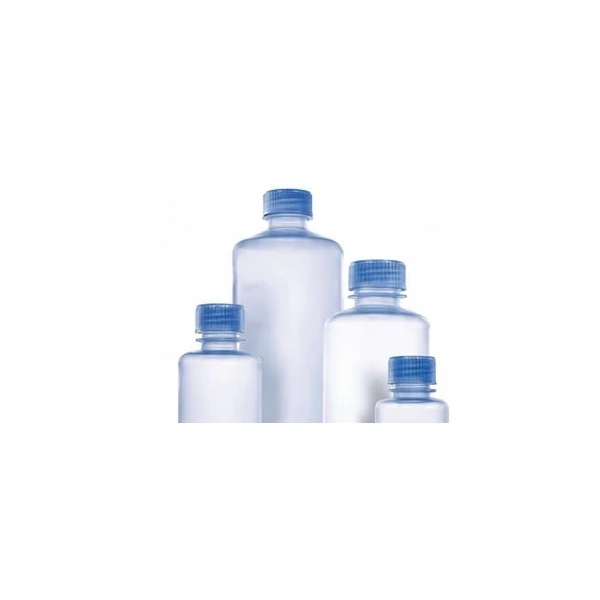
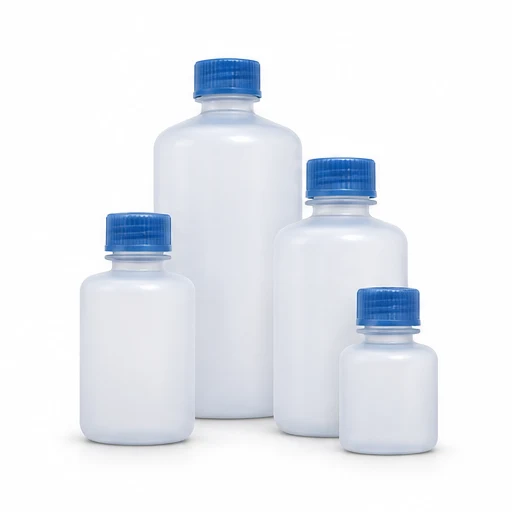
Replace six clipped bottle photos with full product illustrations

Changed region(s): [[0.1562, 0.0938, 0.875, 0.9062]]

diff --git a/product-one-piece-ldpe-wash-bottles.html b/product-one-piece-ldpe-wash-bottles.html
@@ -111,7 +111,7 @@
 <h1 class="display-6 fw-semibold my-3">One-Piece LDPE Wash Bottles</h1>
 <p>Squeezable low-density polyethylene wash bottles with a one-piece dispensing design. Confirm the required capacity and nozzle configuration when requesting a quote.</p><p>Request a quote to confirm the size, pack quantity, price and availability.</p>
 <a class="btn btn-dark" href="index.html?product=One-Piece%20LDPE%20Wash%20Bottles#site-visit">Get Quote</a>
-<p class="small text-secondary mt-3 mb-0">Catalogue image. The exact configuration is confirmed in your quote.</p></div></header>
+<p class="small text-secondary mt-3 mb-0">AI-generated product illustration. Confirm the exact configuration when requesting a quote.</p></div></header>
 <section aria-labelledby="specifications"><h2 class="section-heading" id="specifications">Product Details</h2>
 <div class="table-responsive"><table class="table table-bordered align-middle mb-0"><thead><tr><th scope="col">Feature</th><th scope="col">Catalogue detail</th></tr></thead><tbody><tr><th scope="row">Material</th><td>LDPE</td></tr><tr><th scope="row">Design</th><td>One-piece dispensing assembly</td></tr><tr><th scope="row">Selection</th><td>Confirm capacity and nozzle configuration</td></tr></tbody></table></div></section>
 <section aria-labelledby="related"><h2 class="section-heading" id="related">Related Products</h2><ul class="row row-cols-1 row-cols-sm-3 g-3 list-unstyled mb-0"><li class="col"><a class="price-block h-100 p-3 text-decoration-none" href="product-sterile-cell-spreaders.html"><img class="catalog-photo" src="img/products/sterile-cell-spreaders.webp" alt="Sterile Cell Spreaders" width="600" height="600" loading="lazy" decoding="async"><span class="fw-semibold">Sterile Cell Spreaders</span></a></li><li class="col"><a class="price-block h-100 p-3 text-decoration-none" href="product-narrow-mouth-polypropylene-bottles.html"><img class="catalog-photo" src="img/products/narrow-mouth-polypropylene-bottles.webp" alt="Narrow-Mouth Polypropylene Bottles" width="600" height="600" loading="lazy" decoding="async"><span class="fw-semibold">Narrow-Mouth Polypropylene Bottles</span></a></li><li class="col"><a class="price-block h-100 p-3 text-decoration-none" href="product-narrow-mouth-ldpe-bottles.html"><img class="catalog-photo" src="img/products/narrow-mouth-ldpe-bottles.webp" alt="Narrow-Mouth LDPE Bottles" width="600" height="600" loading="lazy" decoding="async"><span class="fw-semibold">Narrow-Mouth LDPE Bottles</span></a></li></ul></section>

diff --git a/product-euro-style-ldpe-dropping-bottles.html b/product-euro-style-ldpe-dropping-bottles.html
@@ -111,7 +111,7 @@
 <h1 class="display-6 fw-semibold my-3">Euro-Style LDPE Dropping Bottles</h1>
 <p>LDPE dropping bottles with a dispensing tip and cap for controlled dropwise delivery. The source shows small bottle formats for routine laboratory dispensing.</p><p>Request a quote to confirm the size, pack quantity, price and availability.</p>
 <a class="btn btn-dark" href="index.html?product=Euro-Style%20LDPE%20Dropping%20Bottles#site-visit">Get Quote</a>
-<p class="small text-secondary mt-3 mb-0">Catalogue image. The exact configuration is confirmed in your quote.</p></div></header>
+<p class="small text-secondary mt-3 mb-0">AI-generated product illustration. Confirm the exact configuration when requesting a quote.</p></div></header>
 <section aria-labelledby="specifications"><h2 class="section-heading" id="specifications">Product Details</h2>
 <div class="table-responsive"><table class="table table-bordered align-middle mb-0"><thead><tr><th scope="col">Feature</th><th scope="col">Catalogue detail</th></tr></thead><tbody><tr><th scope="row">Material</th><td>LDPE</td></tr><tr><th scope="row">Format</th><td>Euro-style dropping bottle</td></tr><tr><th scope="row">Closure</th><td>Tip and screw cap</td></tr></tbody></table></div></section>
 <section aria-labelledby="related"><h2 class="section-heading" id="related">Related Products</h2><ul class="row row-cols-1 row-cols-sm-3 g-3 list-unstyled mb-0"><li class="col"><a class="price-block h-100 p-3 text-decoration-none" href="product-sterile-cell-spreaders.html"><img class="catalog-photo" src="img/products/sterile-cell-spreaders.webp" alt="Sterile Cell Spreaders" width="600" height="600" loading="lazy" decoding="async"><span class="fw-semibold">Sterile Cell Spreaders</span></a></li><li class="col"><a class="price-block h-100 p-3 text-decoration-none" href="product-narrow-mouth-polypropylene-bottles.html"><img class="catalog-photo" src="img/products/narrow-mouth-polypropylene-bottles.webp" alt="Narrow-Mouth Polypropylene Bottles" width="600" height="600" loading="lazy" decoding="async"><span class="fw-semibold">Narrow-Mouth Polypropylene Bottles</span></a></li><li class="col"><a class="price-block h-100 p-3 text-decoration-none" href="product-narrow-mouth-ldpe-bottles.html"><img class="catalog-photo" src="img/products/narrow-mouth-ldpe-bottles.webp" alt="Narrow-Mouth LDPE Bottles" width="600" height="600" loading="lazy" decoding="async"><span class="fw-semibold">Narrow-Mouth LDPE Bottles</span></a></li></ul></section>

diff --git a/product-ldpe-wash-bottles.html b/product-ldpe-wash-bottles.html
@@ -111,7 +111,7 @@
 <h1 class="display-6 fw-semibold my-3">LDPE Wash Bottles</h1>
 <p>Squeezable LDPE wash bottles with an angled dispensing nozzle. Select body capacity and nozzle configuration for the intended liquid.</p><p>Request a quote to confirm the size, pack quantity, price and availability.</p>
 <a class="btn btn-dark" href="index.html?product=LDPE%20Wash%20Bottles#site-visit">Get Quote</a>
-<p class="small text-secondary mt-3 mb-0">Catalogue image. The exact configuration is confirmed in your quote.</p></div></header>
+<p class="small text-secondary mt-3 mb-0">AI-generated product illustration. Confirm the exact configuration when requesting a quote.</p></div></header>
 <section aria-labelledby="specifications"><h2 class="section-heading" id="specifications">Product Details</h2>
 <div class="table-responsive"><table class="table table-bordered align-middle mb-0"><thead><tr><th scope="col">Feature</th><th scope="col">Catalogue detail</th></tr></thead><tbody><tr><th scope="row">Material</th><td>LDPE</td></tr><tr><th scope="row">Dispensing</th><td>Angled nozzle</td></tr><tr><th scope="row">Selection</th><td>Confirm capacity and liquid compatibility</td></tr></tbody></table></div></section>
 <section aria-labelledby="related"><h2 class="section-heading" id="related">Related Products</h2><ul class="row row-cols-1 row-cols-sm-3 g-3 list-unstyled mb-0"><li class="col"><a class="price-block h-100 p-3 text-decoration-none" href="product-sterile-cell-spreaders.html"><img class="catalog-photo" src="img/products/sterile-cell-spreaders.webp" alt="Sterile Cell Spreaders" width="600" height="600" loading="lazy" decoding="async"><span class="fw-semibold">Sterile Cell Spreaders</span></a></li><li class="col"><a class="price-block h-100 p-3 text-decoration-none" href="product-narrow-mouth-polypropylene-bottles.html"><img class="catalog-photo" src="img/products/narrow-mouth-polypropylene-bottles.webp" alt="Narrow-Mouth Polypropylene Bottles" width="600" height="600" loading="lazy" decoding="async"><span class="fw-semibold">Narrow-Mouth Polypropylene Bottles</span></a></li><li class="col"><a class="price-block h-100 p-3 text-decoration-none" href="product-narrow-mouth-ldpe-bottles.html"><img class="catalog-photo" src="img/products/narrow-mouth-ldpe-bottles.webp" alt="Narrow-Mouth LDPE Bottles" width="600" height="600" loading="lazy" decoding="async"><span class="fw-semibold">Narrow-Mouth LDPE Bottles</span></a></li></ul></section>

diff --git a/product-narrow-mouth-ldpe-bottles.html b/product-narrow-mouth-ldpe-bottles.html
@@ -111,7 +111,7 @@
 <h1 class="display-6 fw-semibold my-3">Narrow-Mouth LDPE Bottles</h1>
 <p>Narrow-mouth bottles made of low-density polyethylene with screw closures. Choose the capacity and confirm compatibility with the contents.</p><p>Request a quote to confirm the size, pack quantity, price and availability.</p>
 <a class="btn btn-dark" href="index.html?product=Narrow-Mouth%20LDPE%20Bottles#site-visit">Get Quote</a>
-<p class="small text-secondary mt-3 mb-0">Catalogue image. The exact configuration is confirmed in your quote.</p></div></header>
+<p class="small text-secondary mt-3 mb-0">AI-generated product illustration. Confirm the exact configuration when requesting a quote.</p></div></header>
 <section aria-labelledby="specifications"><h2 class="section-heading" id="specifications">Product Details</h2>
 <div class="table-responsive"><table class="table table-bordered align-middle mb-0"><thead><tr><th scope="col">Feature</th><th scope="col">Catalogue detail</th></tr></thead><tbody><tr><th scope="row">Material</th><td>LDPE</td></tr><tr><th scope="row">Closure</th><td>Screw cap</td></tr><tr><th scope="row">Opening</th><td>Narrow mouth</td></tr></tbody></table></div></section>
 <section aria-labelledby="related"><h2 class="section-heading" id="related">Related Products</h2><ul class="row row-cols-1 row-cols-sm-3 g-3 list-unstyled mb-0"><li class="col"><a class="price-block h-100 p-3 text-decoration-none" href="product-sterile-cell-spreaders.html"><img class="catalog-photo" src="img/products/sterile-cell-spreaders.webp" alt="Sterile Cell Spreaders" width="600" height="600" loading="lazy" decoding="async"><span class="fw-semibold">Sterile Cell Spreaders</span></a></li><li class="col"><a class="price-block h-100 p-3 text-decoration-none" href="product-narrow-mouth-polypropylene-bottles.html"><img class="catalog-photo" src="img/products/narrow-mouth-polypropylene-bottles.webp" alt="Narrow-Mouth Polypropylene Bottles" width="600" height="600" loading="lazy" decoding="async"><span class="fw-semibold">Narrow-Mouth Polypropylene Bottles</span></a></li><li class="col"><a class="price-block h-100 p-3 text-decoration-none" href="product-narrow-mouth-hdpe-bottles.html"><img class="catalog-photo" src="img/products/narrow-mouth-hdpe-bottles.webp" alt="Narrow-Mouth HDPE Bottles" width="600" height="600" loading="lazy" decoding="async"><span class="fw-semibold">Narrow-Mouth HDPE Bottles</span></a></li></ul></section>

diff --git a/product-narrow-mouth-polypropylene-bottles.html b/product-narrow-mouth-polypropylene-bottles.html
@@ -111,7 +111,7 @@
 <h1 class="display-6 fw-semibold my-3">Narrow-Mouth Polypropylene Bottles</h1>
 <p>Narrow-mouth polypropylene bottles with screw caps. Compare bottle height, opening and capacity against the intended storage or dispensing task.</p><p>Request a quote to confirm the size, pack quantity, price and availability.</p>
 <a class="btn btn-dark" href="index.html?product=Narrow-Mouth%20Polypropylene%20Bottles#site-visit">Get Quote</a>
-<p class="small text-secondary mt-3 mb-0">Catalogue image. The exact configuration is confirmed in your quote.</p></div></header>
+<p class="small text-secondary mt-3 mb-0">AI-generated product illustration. Confirm the exact configuration when requesting a quote.</p></div></header>
 <section aria-labelledby="specifications"><h2 class="section-heading" id="specifications">Product Details</h2>
 <div class="table-responsive"><table class="table table-bordered align-middle mb-0"><thead><tr><th scope="col">Feature</th><th scope="col">Catalogue detail</th></tr></thead><tbody><tr><th scope="row">Material</th><td>Polypropylene</td></tr><tr><th scope="row">Closure</th><td>Screw cap</td></tr><tr><th scope="row">Opening</th><td>Narrow mouth</td></tr></tbody></table></div></section>
 <section aria-labelledby="related"><h2 class="section-heading" id="related">Related Products</h2><ul class="row row-cols-1 row-cols-sm-3 g-3 list-unstyled mb-0"><li class="col"><a class="price-block h-100 p-3 text-decoration-none" href="product-sterile-cell-spreaders.html"><img class="catalog-photo" src="img/products/sterile-cell-spreaders.webp" alt="Sterile Cell Spreaders" width="600" height="600" loading="lazy" decoding="async"><span class="fw-semibold">Sterile Cell Spreaders</span></a></li><li class="col"><a class="price-block h-100 p-3 text-decoration-none" href="product-narrow-mouth-ldpe-bottles.html"><img class="catalog-photo" src="img/products/narrow-mouth-ldpe-bottles.webp" alt="Narrow-Mouth LDPE Bottles" width="600" height="600" loading="lazy" decoding="async"><span class="fw-semibold">Narrow-Mouth LDPE Bottles</span></a></li><li class="col"><a class="price-block h-100 p-3 text-decoration-none" href="product-narrow-mouth-hdpe-bottles.html"><img class="catalog-photo" src="img/products/narrow-mouth-hdpe-bottles.webp" alt="Narrow-Mouth HDPE Bottles" width="600" height="600" loading="lazy" decoding="async"><span class="fw-semibold">Narrow-Mouth HDPE Bottles</span></a></li></ul></section>

diff --git a/product-narrow-mouth-hdpe-bottles.html b/product-narrow-mouth-hdpe-bottles.html
@@ -111,7 +111,7 @@
 <h1 class="display-6 fw-semibold my-3">Narrow-Mouth HDPE Bottles</h1>
 <p>Narrow-mouth high-density polyethylene bottles with screw caps. The catalogue shows a range of capacities and overall heights.</p><p>Request a quote to confirm the size, pack quantity, price and availability.</p>
 <a class="btn btn-dark" href="index.html?product=Narrow-Mouth%20HDPE%20Bottles#site-visit">Get Quote</a>
-<p class="small text-secondary mt-3 mb-0">Catalogue image. The exact configuration is confirmed in your quote.</p></div></header>
+<p class="small text-secondary mt-3 mb-0">AI-generated product illustration. Confirm the exact configuration when requesting a quote.</p></div></header>
 <section aria-labelledby="specifications"><h2 class="section-heading" id="specifications">Product Details</h2>
 <div class="table-responsive"><table class="table table-bordered align-middle mb-0"><thead><tr><th scope="col">Feature</th><th scope="col">Catalogue detail</th></tr></thead><tbody><tr><th scope="row">Material</th><td>HDPE</td></tr><tr><th scope="row">Closure</th><td>Screw cap</td></tr><tr><th scope="row">Opening</th><td>Narrow mouth</td></tr></tbody></table></div></section>
 <section aria-labelledby="related"><h2 class="section-heading" id="related">Related Products</h2><ul class="row row-cols-1 row-cols-sm-3 g-3 list-unstyled mb-0"><li class="col"><a class="price-block h-100 p-3 text-decoration-none" href="product-sterile-cell-spreaders.html"><img class="catalog-photo" src="img/products/sterile-cell-spreaders.webp" alt="Sterile Cell Spreaders" width="600" height="600" loading="lazy" decoding="async"><span class="fw-semibold">Sterile Cell Spreaders</span></a></li><li class="col"><a class="price-block h-100 p-3 text-decoration-none" href="product-narrow-mouth-polypropylene-bottles.html"><img class="catalog-photo" src="img/products/narrow-mouth-polypropylene-bottles.webp" alt="Narrow-Mouth Polypropylene Bottles" width="600" height="600" loading="lazy" decoding="async"><span class="fw-semibold">Narrow-Mouth Polypropylene Bottles</span></a></li><li class="col"><a class="price-block h-100 p-3 text-decoration-none" href="product-narrow-mouth-ldpe-bottles.html"><img class="catalog-photo" src="img/products/narrow-mouth-ldpe-bottles.webp" alt="Narrow-Mouth LDPE Bottles" width="600" height="600" loading="lazy" decoding="async"><span class="fw-semibold">Narrow-Mouth LDPE Bottles</span></a></li></ul></section>
